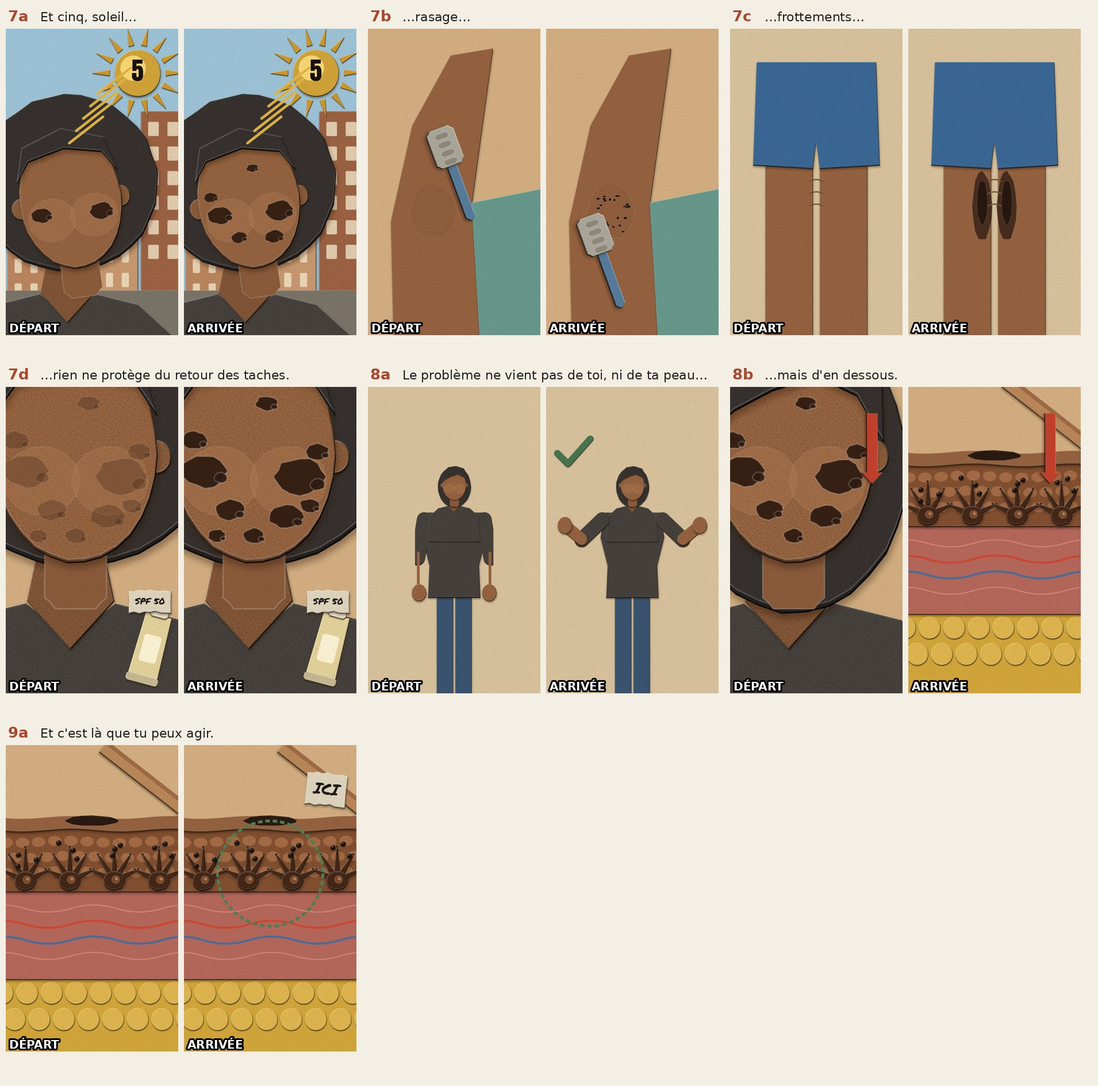
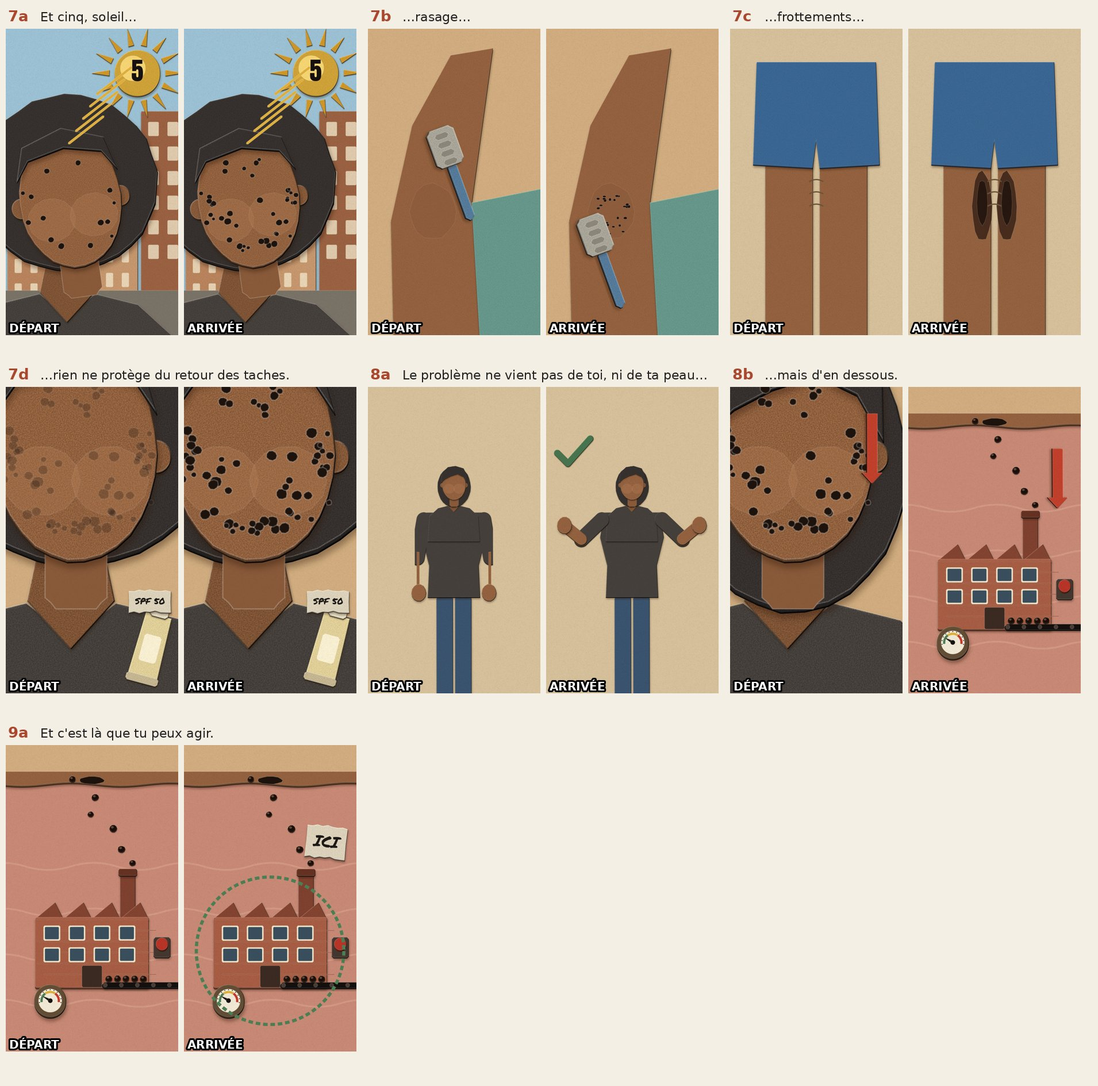
Storyboard v4: usine a melanine, points noirs, serum qui goutte pour les actifs, 10c recadre
Claude-Session: https://claude.ai/code/session_01VzL1MDtc5i1uNUsoDy5uEf

diff --git a/mela-ad/web/sbplans.js b/mela-ad/web/sbplans.js
@@ -14,7 +14,7 @@ P("1c", "…ne part pas.", (g, e) => { S.plain(g); const f = S.jaw(g, { hair: "a
 
 /* 2 · R1 */
 P("2a", "Un, tu essaies de faire partir tes taches à la surface…", (g, e) => { S.plain(g); const f = S.jaw(g, { hair: "bun", turn: -.5, x: 640 }); S.patches(f, .8); const c = f.pt(-92, 34); S.hand(g, c[0] - 30, c[1] + 220, 1.6, 20, { point: true }); if (e) H.blob(f.hd, -92, 34, 60, 40, "#F3EEE2", { n: 14, jit: .08, sh: false, th: 0, attr: { opacity: .55 } }); S.tube(g, 180, 1500, "#F2C9C0", 1, 1.4, -18); });
-P("2b", "…alors qu'elles se fabriquent sous ta peau.", (g, e) => { S.plain(g); S.cut(g, 560, { flap: e ? 1 : 0, grains: e ? 3 : 0 }); if (!e) H.rrect(g, -100, 630, 1300, 1500, "#D2AE80", { r: 0, sh: false, jit: 0 }); H.blob(g, 540, 545, 200, 22, "#F3EEE2", { n: 14, jit: .05, th: 3 }); });
+P("2b", "…alors qu'elles se fabriquent sous ta peau.", (g, e) => { if (!e) { S.plain(g); const y = S.inside(g, { spot: 1.2 }); H.rrect(g, -100, y + 20, 1300, 1800, "#D2AE80", { r: 0, sh: false, jit: 0 }); S.hand(g, 540, y - 260, 1.3, 180, { point: true }); } else S.mech(g, { smoke: 8, belt: 6, spot: 1.2 }); });
 
 /* 3 · R2 */
 P("3a", "Deux, tu les caches…", (g, e) => { S.bathWall(g); const f = K4.face(g, 640, 520, 2.6, { hair: "afro", turn: .4 }); S.patches(f, .9); if (e) makeup(f); const c = f.pt(86, 44); const h = S.hand(g, c[0] + 60, c[1] + 240, 1.4, -20); K.sponge(h.q); S.found(g, 190, 1450, 2, 1.8); });
@@ -43,41 +43,41 @@ P("7d", "…rien ne protège du retour des taches.", (g, e) => { S.plain(g); con
 
 /* 8 · pas toi, dessous */
 P("8a", "Le problème ne vient pas de toi, ni de ta peau…", (g, e) => { S.plain(g, "#D8C29C"); S.body(g, 540, 1900, .8, { hair: "bob", turn: .2, armL: e ? [[-214, -1420], [-360, -1280], [-480, -1380]] : undefined, armR: e ? [[214, -1420], [360, -1280], [480, -1380]] : undefined }); if (e) S.check(g, 200, 380, 110); });
-P("8b", "…mais d'en dessous.", (g, e) => { S.plain(g); if (!e) { const f = S.jaw(g, { hair: "bob" }); S.patches(f, .8); } else S.cut(g, 380, { flap: 1, grains: 3 }); K.arrow(g, 860, 160, 860, 560, Q.red, 56); });
+P("8b", "…mais d'en dessous.", (g, e) => { if (!e) { S.plain(g); const f = S.jaw(g, { hair: "bob" }); S.patches(f, .8); K.arrow(g, 860, 160, 860, 560, Q.red, 56); } else { S.mech(g, { smoke: 6, belt: 5 }); K.arrow(g, 900, 360, 900, 700, Q.red, 56); } });
 
 /* 9 · agir */
-P("9a", "Et c'est là que tu peux agir.", (g, e) => { S.plain(g); const C = S.cut(g, 420, { flap: 1, grains: 3 }); if (e) { K.ring(g, 540, C.cy - 40, 300, Q.green, 16); S.tag(g, "ICI", 860, 260, 90, { string: false, r: 6 }); } });
+P("9a", "Et c'est là que tu peux agir.", (g, e) => { const F = S.mech(g, { smoke: 6, belt: 5 }); if (e) { K.ring(g, 540, 1180, 420, Q.green, 18); S.tag(g, "ICI", 860, 560, 90, { string: false, r: 6 }); } });
 
 /* 10 · mélanine */
-P("10a", "Voilà ce qui se passe.", (g, e) => { S.plain(g); const f = S.jaw(g, { hair: "bob", x: 380 }); S.patches(f, .8); S.loupe(g, 620, 780, 300, c => { if (e) { const q = H.grp(c, -540, -1000, { j: 0 }); S.cut(q, 640, { grains: 3 }); } else { H.circ(c, 0, 0, 300, "#A06A44", { sh: false, th: 0 }); H.blob(c, 40, 20, 120, 80, DK, { n: 14, jit: .2, sh: false, th: 0 }); } }); });
-P("10b", "Ta peau fabrique de la mélanine…", (g, e) => { S.plain(g); S.melano(g, 540, 1100, 3.2, e ? 18 : 3); });
-P("10c", "…c'est ce qui lui donne sa couleur.", (g, e) => { S.plain(g); const tones = ["#D9A67E", "#B98258", "#A06A44", "#7C4A30", "#4B2B1E"]; (e ? tones : [tones[2]]).forEach((sk, i) => K4.face(g, e ? 140 + i * 200 : 540, e ? 760 + (i % 2) * 120 : 760, e ? .9 : 1.9, { skin: e ? sk : tones[2], hair: ["afro", "bun", "bob", "braids", "afro"][i], cloth: [Q.green, "#C8392B", K3.CLOTH, Q.blue, "#E2B13C"][i] })); });
+P("10a", "Voilà ce qui se passe.", (g, e) => { S.plain(g); const f = S.jaw(g, { hair: "bob", x: 380 }); S.patches(f, .8); S.loupe(g, 620, 780, 300, c => { if (e) { H.circ(c, 0, 0, 300, "#C98A76", { sh: false, th: 0 }); S.factory(c, { x: 0, y: 60, s: .38, smoke: 4, belt: 4 }); } else { H.circ(c, 0, 0, 300, "#A06A44", { sh: false, th: 0 }); for (let i = 0; i < 18; i++) H.circ(c, Math.cos(i * 2.4) * 160 * ((i % 4) / 4 + .2), Math.sin(i * 2.4) * 160 * ((i % 4) / 4 + .2), 12, "#1E120C", { sh: false, th: 0 }); } }); });
+P("10b", "Ta peau fabrique de la mélanine…", (g, e) => { S.mech(g, { smoke: e ? 10 : 2, belt: e ? 9 : 2, spot: e ? 1 : .3 }); if (e) S.tag(g, "MÉLANINE", 760, 620, 56, { string: false, r: -4 }); });
+P("10c", "…c'est ce qui lui donne sa couleur.", (g, e) => { S.plain(g); const tones = ["#D9A67E", "#B98258", "#A06A44", "#7C4A30", "#4B2B1E"], hair = ["afro", "bun", "bob", "braids", "afro"], cl = [Q.green, "#C8392B", K3.CLOTH, Q.blue, "#E2B13C"]; if (!e) K4.face(g, 540, 760, 1.6, { skin: tones[2], hair: "bob", cloth: cl[2] }); else [[260, 520], [540, 520], [820, 520], [400, 1060], [680, 1060]].forEach(([x, y], i) => K4.face(g, x, y, .62, { skin: tones[i], hair: hair[i], cloth: cl[i] })); });
 
 /* 11 · agression */
-P("11a", "Quand elle est agressée…", (g, e) => { S.plain(g); const c = K4.chest(g, 540, 300); H.set(c.dial.nd, { r: e ? 70 : -70 }); c.rays.forEach(r => H.set(r, { o: e ? 1 : 0 })); if (e) S.burst(g, 540, 1000, 18, 380, 600); });
-P("11b", "…par un bouton…", (g, e) => { S.plain(g); const f = S.jaw(g, { hair: "bob" }); S.patches(f, .3); if (e) { const pm = K.pimple(f.hd, 30); H.set(pm, { x: 70, y: 70 }); } });
-P("11c", "…un rasage…", (g, e) => { S.plain(g, "#D8C29C"); const l = H.grp(g, 540, 960, { j: 0 }); l._b.r = -14; H.rrect(l, -200, -1000, 400, 2000, S.SK, { r: 200, jit: 0, th: 10 }); if (e) S.freckles(l, -120, -300, 240, 500, 28, 6, 6); const rz = K.razor(g, 1.6); H.set(rz, { x: e ? 640 : 480, y: e ? 1300 : 420, r: 76 }); });
-P("11d", "…le soleil…", (g, e) => { S.street(g); const su = K3.sunBig(g, 130); H.set(su, { x: 820, y: 240 }); const f = K4.face(g, 460, 900, 2.0, { hair: "braids", turn: .5, tilt: -12 }); S.patches(f, e ? .7 : .2, { scale: e ? 1.2 : 1 }); });
-P("11e", "…ou les hormones…", (g, e) => { S.board(g, "#D8C29C"); S.blister(g, 320, 640, 1.4); const t = H.grp(g, 760, 760, { j: 0 }); t._b.r = 20; H.rrect(t, -50, -240, 100, 480, "#FBF6EA", { r: 40, jit: 0, th: 6 }); H.rrect(t, -26, -60, 52, 90, "#CFE0E8", { r: 8, jit: 0, sh: false, th: 0 }); H.rrect(t, -6, -50, 6, 70, "#C8392B", { r: 2, jit: 0, sh: false, th: 0 }); H.rrect(t, 6, -50, 6, 70, "#C8392B", { r: 2, jit: 0, sh: false, th: 0 }); if (e) { const f = K4.face(g, 540, 1400, 1.4, { hair: "bun", turn: -.3 }); [[0, -90, 70], [-60, 110, 34], [60, 110, 34], [0, 100, 26]].forEach(([x, y, r], i) => H.blob(f.hd, x, y, r, r * .5, DK2, { n: 12, jit: .2, seed: i, sh: false, th: 0 })); } });
-P("11f", "…elle en fabrique trop…", (g, e) => { S.plain(g); S.melano(g, 540, 1100, 3.2, e ? 40 : 4, { high: 600 }); const dl = K4.dial(g, 880, 260, 120); H.set(dl.nd, { r: e ? 78 : -60 }); });
-P("11g", "…à cet endroit précis.", (g, e) => { S.plain(g); const f = S.jaw(g, { hair: "bob" }); S.patches(f, .3); H.blob(f.hd, 86, 44, 58, 42, DK, { n: 14, jit: .2, sh: false, th: 0 }); if (e) { const c = f.pt(86, 44); K.ring(g, c[0], c[1], 300, Q.cream, 16); } });
+P("11a", "Quand elle est agressée…", (g, e) => { S.mech(g, { smoke: 3, belt: 3, alarm: e, dial: e ? 60 : -60, pressed: e }); if (e) S.bolt(g, 860, 600, 1.0, 20); });
+P("11b", "…par un bouton…", (g, e) => { S.split(g, T => { S.plain(T); const f = K4.face(T, 540, 260, 2.4, { hair: "bob", turn: .4 }); S.patches(f, .2); if (e) { const pm = K.pimple(f.hd, 28); H.set(pm, { x: 80, y: 60 }); } }, { alarm: e, pressed: e, smoke: e ? 6 : 1, dial: e ? 60 : -60 }); });
+P("11c", "…un rasage…", (g, e) => { S.split(g, T => { S.plain(T, "#D8C29C"); const l = H.grp(T, 540, 420, { j: 0 }); l._b.r = -70; H.rrect(l, -170, -800, 340, 1600, S.SK, { r: 0, jit: 0, th: 10 }); if (e) S.freckles(l, -100, -200, 200, 360, 22, 6, 6); const rz = K.razor(T, 1.4); H.set(rz, { x: e ? 760 : 300, y: e ? 470 : 360, r: 10 }); }, { alarm: e, pressed: e, smoke: e ? 6 : 1, dial: e ? 60 : -60 }); });
+P("11d", "…le soleil…", (g, e) => { S.split(g, T => { S.street(T); const su = K3.sunBig(T, 110); H.set(su, { x: 860, y: 200 }); const f = K4.face(T, 440, 520, 1.5, { hair: "braids", turn: .5, tilt: -12 }); S.patches(f, e ? .5 : .1); }, { alarm: e, pressed: e, smoke: e ? 6 : 1, dial: e ? 60 : -60 }); });
+P("11e", "…ou les hormones…", (g, e) => { S.split(g, T => { S.board(T, "#D8C29C"); S.blister(T, 330, 400, 1.2); const t = H.grp(T, 760, 420, { j: 0 }); t._b.r = 20; H.rrect(t, -45, -220, 90, 440, "#FBF6EA", { r: 40, jit: 0, th: 6 }); H.rrect(t, -24, -50, 48, 80, "#CFE0E8", { r: 8, jit: 0, sh: false, th: 0 }); H.rrect(t, -6, -42, 6, 64, "#C8392B", { r: 2, jit: 0, sh: false, th: 0 }); H.rrect(t, 6, -42, 6, 64, "#C8392B", { r: 2, jit: 0, sh: false, th: 0 }); }, { alarm: e, pressed: e, smoke: e ? 6 : 1, dial: e ? 60 : -60 }); });
+P("11f", "…elle en fabrique trop…", (g, e) => { S.mech(g, { smoke: e ? 26 : 4, belt: e ? 18 : 3, alarm: e, dial: e ? 78 : -40, spot: e ? 2.4 : 1 }); });
+P("11g", "…à cet endroit précis.", (g, e) => { S.plain(g); const f = S.jaw(g, { hair: "bob" }); S.patches(f, .25); for (let i = 0; i < 14; i++) H.blob(f.hd, 86 + Math.cos(i * 2.4) * 34 * ((i % 4) / 3 + .3), 44 + Math.sin(i * 2.4) * 30 * ((i % 4) / 3 + .3), 8, 7, "#1E120C", { n: 9, jit: .15, seed: i, sh: false, th: 0 }); if (e) { const c = f.pt(86, 44); K.ring(g, c[0], c[1], 230, Q.cream, 16); } });
 
 /* 12 · coincée */
-P("12a", "Cette mélanine reste coincée sous la peau.", (g, e) => { S.plain(g); S.cut(g, 420, { flap: 0, grains: 4, high: true }); if (e) { for (let i = 0; i < 10; i++) H.rrect(g, 30 + i * 112, 380, 22, 140, "#2A211D", { r: 6, jit: 0, th: 4 }); H.rrect(g, -60, 440, 1200, 22, "#2A211D", { r: 6, jit: 0, th: 4 }); S.lock(g, 540, 340, 1.5); } });
+P("12a", "Cette mélanine reste coincée sous la peau.", (g, e) => { const y = S.inside(g, { spot: 1.4 }); const rg = H.rng(4); for (let i = 0; i < 30; i++) K3.dot(g, 300 + rg() * 480, y + 60 + rg() * 200, 18, i, MEL); S.factory(g, { x: 540, y: 1300, s: .8, smoke: 3, belt: 4 }); if (e) { for (let i = 0; i < 10; i++) H.rrect(g, 30 + i * 112, y + 20, 22, 300, "#2A211D", { r: 6, jit: 0, th: 4 }); H.rrect(g, -60, y + 300, 1200, 22, "#2A211D", { r: 6, jit: 0, th: 4 }); S.lock(g, 540, y + 330, 1.4); } });
 
 /* 13 · réagit plus fort */
 P("13a", "Et sur une peau mate ou noire, elle réagit souvent plus fort.", (g, e) => { S.plain(g, "#9CC3D6"); const su = K3.sunBig(g, 100); H.set(su, { x: 540, y: 220 }); [["#D9A67E", 290], [S.SK, 790]].forEach(([sk, x], i) => { H.blob(g, x, 700, 170, 170, sk, { n: 30, jit: 0, th: 10 }); H.rrect(g, x - 170, 700, 340, 1400, sk, { r: 0, jit: 0, th: 10 }); if (e) { if (i === 0) H.blob(g, x, 900, 40, 30, "#8A5A3A", { n: 12, jit: .2, sh: false, th: 0 }); else H.blob(g, x, 920, 120, 84, "#2E1A10", { n: 18, jit: .22, sh: false, th: 0, attr: { opacity: .92 } }); } }); });
 
 /* 14 · des mois / surface */
 P("14a", "C'est pour ça que la tache reste des mois…", (g, e) => { const m = bathSet(g); S.cal(g, 860, 360, .75, e ? 6 : 0); const f = S.woman(m.inner, 0, 60, 1.0, { hair: "afro", turn: .5 }); S.patches(f, .8); if (e) for (let i = 0; i < 5; i++) { const pg = H.grp(g, 700 - i * 90, 560 + i * 70, { j: 0 }); pg._b.r = -20 + i * 12; H.rrect(pg, -60, -70, 120, 140, "#F7EFD6", { r: 8, jit: 0, th: 4 }); H.rrect(pg, -60, -70, 120, 34, "#A9482F", { r: 8, jit: 0, sh: false, th: 0 }); } });
-P("14b", "…et qu'un produit de surface n'y change rien.", (g, e) => { S.plain(g); S.cut(g, 420, { flap: 0, grains: 4, high: true }); if (e) H.poly(g, [[-100, 400], [1180, 400], [1180, 440], [-100, 440]], "#F3EEE2", { jit: 2, th: 4 }); else S.hand(g, 540, 160, 1.4, 180, { point: true }); });
+P("14b", "…et qu'un produit de surface n'y change rien.", (g, e) => { const F = S.mech(g, { smoke: 8, belt: 7, spot: 1.2 }); if (e) H.poly(g, [[-100, 150], [1180, 150], [1180, 190], [-100, 190]], "#F3EEE2", { jit: 2, th: 4 }); else S.hand(g, 540, -40, 1.3, 180, { point: true }); });
 
 /* 15 · pas éclaircir */
 P("15a", "Le but n'est donc pas d'éclaircir ta peau.", (g, e) => { S.board(g, "#D8C29C"); const j = K.jar(g, "#FBF6EA", 2.2); H.set(j, { x: e ? 380 : 540, y: 960, r: e ? -16 : 0 }); S.tag(j, "BLANCHISSANT", 0, 24, 30, { string: false }); if (e) { S.hand(g, 820, 1240, 1.8, -70); S.cross(g, 400, 900, 260); } });
 
 /* 16 · réguler */
-P("16a", "C'est de réguler ta production de mélanine…", (g, e) => { S.plain(g); S.melano(g, 540, 1150, 3.0, e ? 3 : 30, { high: 560 }); const dl = K4.dial(g, 540, 260, 170); H.set(dl.nd, { r: e ? -68 : 72 }); });
-P("16b", "…pour qu'à chaque agression, ta peau n'en fabrique plus trop…", (g, e) => { S.plain(g); S.cut(g, 520, { flap: 0, grains: 1, spot: false }); S.bolt(g, 540, e ? 380 : 160, 1.3); if (e) S.check(g, 860, 240, 90); });
+P("16a", "C'est de réguler ta production de mélanine…", (g, e) => { S.mech(g, { smoke: e ? 2 : 14, belt: e ? 2 : 12, dial: e ? -68 : 72, slow: e, spot: e ? .4 : 1.4 }); });
+P("16b", "…pour qu'à chaque agression, ta peau n'en fabrique plus trop…", (g, e) => { S.mech(g, { smoke: 2, belt: 2, dial: e ? -40 : -68, pressed: e, spot: .4 }); S.bolt(g, 860, e ? 560 : 360, 1.0, 20); if (e) S.check(g, 200, 500, 90); });
 P("16c", "…et ne te gâche plus le teint tous les jours.", (g, e) => { S.plain(g, "#E9D8B8"); const f = K4.face(g, 540, 620, 2.4, { hair: "braids", turn: .3 }); S.patches(f, e ? 0 : .5); if (e) for (let i = 0; i < 7; i++) { H.rrect(g, 110 + i * 125, 1500, 100, 100, "#F7EFD6", { r: 10, jit: 0, th: 6 }); S.check(g, 160 + i * 125, 1560, 34); } });
 
 /* 17 · imagine */
@@ -86,20 +86,20 @@ P("17a", "Imagine que tu puisses enfin faire partir ces taches.", (g, e) => { S.
 /* 18 · ni brûler ni gommer : freiner */
 P("18a", "Pas avec un produit qui brûle…", (g, e) => { S.plain(g); const f = S.jaw(g, { hair: "bob", x: 460 }); S.patches(f, .7); if (e) { S.redness(f, 86, 50, 150, .6); S.redness(f, -86, 50, 130, .5); for (let i = 0; i < 14; i++) H.poly(f.hd, [[0, 0], [24, 6], [8, 22]].map(([x, y]) => [x - 140 + (i * 37) % 280, y - 20 + (i * 53) % 160]), "#E8C9A0", { jit: 0, th: 2 }); S.cross(g, 860, 340, 140); } const b = K3.bottle2(g, "#C8392B", "PEEL", 1.4); H.set(b, { x: 880, y: 1500 }); });
 P("18b", "…pas avec un gommage magique…", (g, e) => { S.board(g, "#C9A271"); const j = S.scrub(g, 540, 1000, 0, 2.2); S.tag(j, "MIRACLE", 0, 40, 32, { string: false }); for (let i = 0; i < 7; i++) { const st = H.grp(g, 540 + Math.cos(i) * 360, 740 + Math.sin(i * 1.7) * 200, { j: 0 }); H.poly(st, H.star(0, 0, 14, 40, 4), Q.yellow, { jit: 0, th: 4 }); } if (e) S.cross(g, 540, 920, 330); });
-P("18c", "…mais avec une solution qui freine la fabrication de pigment, à la source.", (g, e) => { S.plain(g); S.cut(g, 520, { flap: 1, grains: e ? 1 : 4, high: true }); S.serumDrop(g, 540, e ? 800 : 220, 1.8); });
+P("18c", "…mais avec une solution qui freine la fabrication de pigment, à la source.", (g, e) => { S.mech(g, { smoke: e ? 2 : 12, belt: e ? 2 : 10, dial: e ? -60 : 70, slow: e }); S.serumDrop(g, 300, e ? 900 : 640, 1.6); S.dropper(g, 300, 420, 1.0, 0, 0); });
 
 /* 19–23 · actifs */
 P("19a", "Pour ça, il y a quatre actifs dont tu as besoin.", (g, e) => { S.board(g, "#D8C29C"); const cols = ["#E2B13C", "#C8392B", "#F3E6C8", "#CF9A72"], nm = ["AZÉLAÏQUE", "ARBUTINE", "TRANÉXAMIQUE", "NIACINAMIDE"]; cols.forEach((c, i) => { const x = 270 + (i % 2) * 540, y = 620 + Math.floor(i / 2) * 640; vial(g, x, y, c, 1.4); if (e) S.tag(g, nm[i], x, y + 260, 40, { string: false, r: (i % 2 ? 4 : -4) }); }); });
-P("20a", "L'acide azélaïque, à dix pour cent…", (g, e) => { S.board(g); wheat(g, 400, 1100, 2.6); wheat(g, 700, 1160, 2.1); if (e) S.tag(g, "ACIDE AZÉLAÏQUE\n10 %", 540, 380, 84); });
-P("20b", "…freine la production de mélanine.", (g, e) => { S.plain(g); S.melano(g, 540, 1150, 3.0, e ? 4 : 26, { high: 560 }); if (e) for (let i = 0; i < 4; i++) S.serumDrop(g, 260 + i * 180, 560, 1.2); });
-P("21a", "L'alpha-arbutine…", (g, e) => { S.board(g); berry(g, 380, 1100, 2.4); berry(g, 720, 1180, 1.9); if (e) S.tag(g, "ALPHA-ARBUTINE", 540, 380, 84); });
-P("21b", "…bloque la tirozinase, l'enzyme qui lance cette fabrication.", (g, e) => { S.plain(g); const en = H.grp(g, 400, 900, { j: 0 }), pts = []; for (let i = 0; i <= 26; i++) { const a = .5 + i / 26 * (Math.PI * 2 - 1); pts.push([Math.cos(a) * 190, Math.sin(a) * 190]); } pts.push([0, 0]); H.poly(en, pts, "#F5D6A1", { jit: 1, th: 10 }); S.tag(g, "TIROZINASE", 400, 1180, 50, { string: false }); for (let i = 0; i < (e ? 2 : 6); i++) K3.dot(g, 640 + i * 80, 900, 28, i + 3, MEL); if (e) { const h = H.grp(g, 590, 900, { j: 0 }), p2 = []; for (let i = 0; i < 6; i++) { const a = i / 6 * 6.283; p2.push([Math.cos(a) * 70, Math.sin(a) * 70]); } H.poly(h, p2, "#4E7F55", { jit: 0, th: 6 }); S.tag(g, "ARBUTINE", 700, 660, 46, { string: false, r: 5 }); } });
-P("22a", "L'acide tranéxamique…", (g, e) => { S.board(g); vial(g, 540, 1080, "#F3E6C8", 2.0); if (e) S.tag(g, "ACIDE\nTRANÉXAMIQUE", 540, 380, 80); });
-P("22b", "…agit sur les taches tenaces, celles qui ne partent jamais vraiment.", (g, e) => { S.plain(g); S.cut(g, 320, { flap: 1, grains: 1 }); const r = H.rng(5); for (let i = 0; i < (e ? 6 : 30); i++) K3.dot(g, 540 + (r() - .5) * 340, 860 + r() * 260, 15, i + 70, MEL); if (e) for (let i = 0; i < 3; i++) S.serumDrop(g, 420 + i * 120, 760, 1.1); });
-P("23a", "Et la niacinamide, à cinq pour cent…", (g, e) => { S.board(g); vial(g, 540, 1080, "#CF9A72", 2.0); if (e) S.tag(g, "NIACINAMIDE\n5 %", 540, 380, 84); });
+P("20a", "L'acide azélaïque, à dix pour cent…", (g, e) => { S.inside(g, { spot: 1.2, y: 820 }); S.dropper(g, 540, e ? 660 : 520, 1.1, 0, e ? 2 : 1); bottleM(g, 900, 1600, .7); if (e) S.tag(g, "ACIDE AZÉLAÏQUE\n10 %", 540, 1250, 80, { string: false }); });
+P("20b", "…freine la production de mélanine.", (g, e) => { S.mech(g, { smoke: e ? 2 : 12, belt: e ? 3 : 14, dial: e ? -55 : 70, slow: e }); for (let i = 0; i < (e ? 4 : 1); i++) S.serumDrop(g, 300 + i * 160, e ? 820 + (i % 2) * 60 : 420, 1.3); });
+P("21a", "L'alpha-arbutine…", (g, e) => { S.inside(g, { spot: 1, y: 820 }); S.dropper(g, 540, e ? 660 : 520, 1.1, 0, e ? 2 : 1); bottleM(g, 900, 1600, .7); if (e) S.tag(g, "ALPHA-ARBUTINE", 540, 1250, 80, { string: false }); });
+P("21b", "…bloque la tirozinase, l'enzyme qui lance cette fabrication.", (g, e) => { S.plain(g, "#C98A76"); const en = H.grp(g, 420, 1000, { j: 0 }), pts = []; for (let i = 0; i <= 26; i++) { const a = .5 + i / 26 * (Math.PI * 2 - 1); pts.push([Math.cos(a) * 190, Math.sin(a) * 190]); } pts.push([0, 0]); H.poly(en, pts, "#F5D6A1", { jit: 1, th: 10 }); S.tag(g, "TIROZINASE", 420, 1280, 50, { string: false }); for (let i = 0; i < (e ? 2 : 6); i++) K3.dot(g, 660 + i * 80, 1000, 28, i + 3, MEL); S.serumDrop(g, 420, e ? 800 : 600, 1.6); if (e) { S.lock(g, 420, 1000, 1.4); for (let i = 0; i < 4; i++) H.el("path", { d: `M${300 + i * 80},${780 - (i % 2) * 20} l-20,-50`, stroke: "#E8A65A", "stroke-width": 8, "stroke-linecap": "round" }, g); } S.dropper(g, 420, 420, 1.0, 0, 0); });
+P("22a", "L'acide tranéxamique…", (g, e) => { S.inside(g, { spot: 1.8, y: 820 }); S.dropper(g, 540, e ? 660 : 520, 1.1, 0, e ? 2 : 1); bottleM(g, 900, 1600, .7); if (e) S.tag(g, "ACIDE\nTRANÉXAMIQUE", 540, 1250, 76, { string: false }); });
+P("22b", "…agit sur les taches tenaces, celles qui ne partent jamais vraiment.", (g, e) => { const y = S.inside(g, { spot: e ? .6 : 1.8 }); const rg = H.rng(5); for (let i = 0; i < (e ? 6 : 34); i++) K3.dot(g, 540 + (rg() - .5) * 420, y + 60 + rg() * 260, 18, i + 70, MEL); S.factory(g, { x: 540, y: 1340, s: .7, smoke: 2, belt: 3 }); if (e) for (let i = 0; i < 4; i++) S.serumDrop(g, 380 + i * 110, y + 140 + (i % 2) * 60, 1.1); });
+P("23a", "Et la niacinamide, à cinq pour cent…", (g, e) => { S.inside(g, { spot: 0.6, y: 820 }); S.dropper(g, 540, e ? 660 : 520, 1.1, 0, e ? 2 : 1); bottleM(g, 900, 1600, .7); if (e) S.tag(g, "NIACINAMIDE\n5 %", 540, 1250, 80, { string: false }); });
 const bricks = (g, y) => { for (let r = 0; r < 2; r++) for (let i = 0; i < 8; i++) H.rrect(g, -60 + i * 150 + (r % 2) * 75, y - 70 - r * 60, 140, 54, "#D9A482", { r: 6, jit: 0, th: 6 }); };
-P("23b", "…renforce ta barrière cutanée…", (g, e) => { S.plain(g); S.cut(g, 620, { grains: 1, spot: false }); if (e) bricks(g, 620); });
-P("23c", "…pour que ta peau réagisse moins…", (g, e) => { S.plain(g); S.cut(g, 620, { grains: 1, spot: false }); bricks(g, 620); S.bolt(g, e ? 780 : 540, e ? 220 : 420, 1.2, e ? 40 : 0); if (e) for (let i = 0; i < 3; i++) H.el("path", { d: `M${600 + i * 30},${400 - i * 30} l70,-70`, stroke: "#6b543a", "stroke-width": 8, "stroke-linecap": "round" }, g); });
+P("23b", "…renforce ta barrière cutanée…", (g, e) => { const y = S.inside(g, { spot: .4 }); S.factory(g, { x: 540, y: 1240, s: .8, smoke: 2, belt: 2 }); if (e) for (let r = 0; r < 2; r++) for (let i = 0; i < 8; i++) H.rrect(g, -60 + i * 150 + (r % 2) * 75, y - 60 - r * 58, 140, 52, "#D9A482", { r: 6, jit: 0, th: 6 }); else for (let i = 0; i < 3; i++) S.serumDrop(g, 340 + i * 200, y - 160, 1.0); });
+P("23c", "…pour que ta peau réagisse moins…", (g, e) => { const y = S.inside(g, { spot: .4 }); for (let r = 0; r < 2; r++) for (let i = 0; i < 8; i++) H.rrect(g, -60 + i * 150 + (r % 2) * 75, y - 60 - r * 58, 140, 52, "#D9A482", { r: 6, jit: 0, th: 6 }); S.factory(g, { x: 540, y: 1240, s: .8, smoke: 2, belt: 2, dial: -60 }); S.bolt(g, e ? 820 : 540, e ? 40 : 60, 1.0, e ? 40 : 0); });
 P("23d", "…et que les taches reviennent moins.", (g, e) => { S.street(g); const su = K3.sunBig(g, 120); H.set(su, { x: 820, y: 240 }); S.body(g, 480, 1900, .78, { hair: "afro", turn: .4 }); if (e) S.check(g, 200, 500, 100); });
 
 /* 24 · trop de produits */

diff --git a/mela-ad/web/sbkit3.js b/mela-ad/web/sbkit3.js
@@ -1,0 +1,28 @@
+/* Kit storyboard v4 : points noirs sur les visages, usine à mélanine sous la peau, pipette de sérum */
+/* points noirs (remplace les plaques) : grappes sur joues, front, mâchoire */
+S.DOTS = (() => { const r = H.rng(11), out = []; const zones = [[-90, 40, 60, 46], [90, 46, 60, 46], [0, -90, 70, 26], [-40, 130, 70, 26], [50, 130, 60, 24], [-125, -10, 20, 40], [125, 0, 20, 40]]; for (let i = 0; i < 70; i++) { const z = zones[i % zones.length]; out.push([z[0] + (r() - .5) * 2 * z[2], z[1] + (r() - .5) * 2 * z[3], 5 + r() * 6]); } return out; })();
+S.patches = (f, level = 1, o = {}) => { const n = Math.round(S.DOTS.length * Math.min(1, level)), op = o.op === undefined ? 1 : o.op, k = o.scale || 1; S.DOTS.slice(0, n).forEach(([x, y, r], i) => H.blob(f.hd, x, y, r * k, r * .9 * k, "#1E120C", { n: 9, jit: .15, seed: i + 3, sh: false, th: 0, attr: { opacity: op } })); };
+/* pipette de sérum MELA qui goutte */
+S.dropper = (g, x, y, s = 1, r = 0, drops = 1) => { const d = H.grp(g, x, y, { j: .3 }); d._b.r = r; const q = H.grp(d, 0, 0, { j: 0 }); H.set(q, { s }); H.blob(q, 0, -330, 52, 70, "#5A3A2E", { n: 18, jit: .02, th: 6 }); H.rrect(q, -46, -280, 92, 40, "#4F2F22", { r: 8, jit: 0, th: 4 }); H.rrect(q, -20, -240, 40, 260, "#E9E2D0", { r: 18, jit: 0, th: 3, attr: { opacity: .9 } }); H.rrect(q, -12, -140, 24, 150, "#C8803E", { r: 10, jit: 0, sh: false, th: 0 }); for (let i = 0; i < drops; i++) S.serumDrop(q, 0, 70 + i * 90, .9 - i * .1); return d; };
+/* peau vue de l'intérieur : bande de surface en haut (avec la tache), fond rosé = sous la peau */
+S.inside = (g, o = {}) => { H.rrect(g, -60, -60, 1200, 2040, "#C98A76", { r: 0, sh: false, jit: 0 }); for (let i = 0; i < 4; i++) H.el("path", { d: `M-100,${700 + i * 260} q130,-40 260,0 t260,0 t260,0 t260,0 t260,0`, stroke: "#D9A08C", "stroke-width": 10, fill: "none", opacity: .7 }, g); const y = o.y || 230; const pts = []; for (let x = -100; x <= 1180; x += 40) pts.push([x, y + Math.sin(x / 90) * 10]); H.poly(g, [[-100, -60], [1180, -60], ...pts.reverse()], S.SK, { jit: 0, th: 10 }); H.poly(g, [[-100, -60], [1180, -60], [1180, y - 70], [-100, y - 70]], "#D2AE80", { jit: 0, sh: false, th: 0 }); if (o.spot) H.blob(g, 540, y - 20, 70 * o.spot, 22, "#1E120C", { n: 14, jit: .12, sh: false, th: 0 }); return y; };
+/* usine à mélanine. o: belt (nb de grains sur le tapis), smoke (nb de grains qui montent), dial (-80 vert .. 80 rouge), alarm, lock, stop, x/y/s */
+S.factory = (g, o = {}) => { const x = o.x ?? 540, y = o.y ?? 1080, s = o.s ?? 1, F = H.grp(g, x, y, { j: .2 }), q = H.grp(F, 0, 0, { j: 0 }); H.set(q, { s });
+  H.rrect(q, 170, -470, 90, 290, "#8A4632", { r: 6, jit: 0, th: 8 }); H.rrect(q, 160, -490, 110, 40, "#6E3624", { r: 6, jit: 0, th: 5 });
+  const roof = [[-340, -190]]; for (let i = 0; i < 4; i++) roof.push([-340 + i * 170 + 120, -290], [-340 + (i + 1) * 170, -190]); H.poly(q, roof, "#8E4A34", { jit: 0, th: 8 });
+  H.rrect(q, -340, -200, 680, 420, "#B5654A", { r: 6, jit: 0, th: 10 }); for (let r = 0; r < 6; r++) for (let c = 0; c < 9; c++) H.rrect(q, -330 + c * 76 + (r % 2) * 38, -190 + r * 66, 70, 6, "#9C543C", { r: 2, jit: 0, sh: false, th: 0, attr: { opacity: .6 } });
+  for (let r = 0; r < 2; r++) for (let c = 0; c < 4; c++) { H.rrect(q, -290 + c * 150, -150 + r * 130, 100, 90, "#F3E6C8", { r: 6, jit: 0, sh: false, th: 0 }); H.rrect(q, -282 + c * 150, -142 + r * 130, 84, 74, o.alarm ? "#E8833A" : "#3A4F5E", { r: 4, jit: 0, sh: false, th: 0 }); }
+  H.rrect(q, -60, 90, 120, 130, "#3A2A22", { r: 6, jit: 0, sh: false, th: 0 });
+  const dl = K4.dial(q, -250, 300, 70); H.set(dl.nd, { r: o.dial === undefined ? -60 : o.dial });
+  H.rrect(q, 60, 190, 520, 34, Q.blk, { r: 14, jit: 0, th: 6 }); for (let i = 0; i < 6; i++) H.circ(q, 80 + i * 96, 207, 12, "#4A3C34", { sh: false, th: 0 });
+  for (let i = 0; i < (o.belt || 0); i++) K3.dot(q, 100 + (i % 9) * 52 + Math.floor(i / 9) * 26, 168 - Math.floor(i / 9) * 30, 20, i + 5, MEL);
+  const rg = H.rng(o.seed || 2); for (let i = 0; i < (o.smoke || 0); i++) { const t = i / Math.max(1, o.smoke); K3.dot(q, 215 + (rg() - .5) * 120 * (1 + t * 2) - t * 260, -520 - t * ((o.reach || 650)) + (rg() - .5) * 40, 16 + rg() * 8, i + 40, MEL); }
+  if (o.alarm) { const si = H.grp(q, -200, -300, { j: 0 }); H.rrect(si, -40, -10, 80, 30, "#6b543a", { r: 6, jit: 0, th: 4 }); H.blob(si, 0, -40, 40, 48, "#C8392B", { n: 16, jit: .03, th: 5 }); for (let i = 0; i < 7; i++) { const a = (-160 + i * 23) * Math.PI / 180; H.poly(si, [[Math.cos(a) * 70, -40 + Math.sin(a) * 70], [Math.cos(a) * 140, -40 + Math.sin(a) * 140], [Math.cos(a + .12) * 70, -40 + Math.sin(a + .12) * 70]], "#E0705A", { jit: 0, sh: false, th: 0 }); } }
+  if (o.button !== false) { const b = H.grp(q, 420, -60, { j: 0 }); H.rrect(b, -50, -20, 100, 120, "#4A3C34", { r: 10, jit: 0, th: 6 }); H.circ(b, 0, 20, o.pressed ? 30 : 36, "#C8392B", { th: o.pressed ? 2 : 8 }); }
+  if (o.lock) S.lock(q, 215, -560, 1.2);
+  if (o.slow) for (let i = 0; i < 3; i++) H.el("path", { d: `M${-120 + i * 120},-340 q30,-30 60,0`, stroke: Q.green, "stroke-width": 10, fill: "none", "stroke-linecap": "round" }, q);
+  F.q = q; F.pt = (lx, ly) => [x + lx * s, y + ly * s]; return F; };
+/* scène standard du mécanisme : intérieur de peau + usine */
+S.mech = (g, o = {}) => { const y = S.inside(g, { spot: o.spot === undefined ? 1 : o.spot }); const F = S.factory(g, Object.assign({ x: 540, y: 1180, s: .95, reach: 620 }, o)); return F; };
+/* découpe en 2 : en haut la scène réelle (fournie), en bas l'usine */
+S.split = (g, top, o = {}) => { const T = H.grp(g, 0, 0, { j: 0 }); S.clip(T, "M-60,-60H1140V820H-60Z"); top(T); H.torn(g, -100, 790, 1280, 60, "#F1E6CC", { seed: 7, th: 6 }); const B = H.grp(g, 0, 0, { j: 0 }); S.clip(B, "M-60,850H1140V2000H-60Z"); H.rrect(B, -60, 850, 1200, 1200, "#C98A76", { r: 0, sh: false, jit: 0 }); return S.factory(B, Object.assign({ x: 540, y: 1420, s: .72, reach: 500 }, o)); };

diff --git a/mela-ad/web/sb.html b/mela-ad/web/sb.html
@@ -58,7 +58,7 @@ text{font-family:"DM Sans",sans-serif}
  <g id="caps"></g>
 </svg>
 <script>window.READY=new Promise(r=>{window._res=r});
-const src=["engine.js","k2kit.js","k3kit.js","k4kit.js","sbkit.js","sbkit2.js","sbplans.js"];
+const src=["engine.js","k2kit.js","k3kit.js","k4kit.js","sbkit.js","sbkit2.js","sbkit3.js","sbplans.js"];
 Promise.all([document.fonts.load("400 60px Anton"),document.fonts.load("400 60px Marker"),document.fonts.load("800 60px 'DM Sans'"),document.fonts.load("700 40px 'DM Sans'")]).then(async()=>{for(const s of src){await new Promise(res=>{const e=document.createElement("script");e.src=s;e.onload=res;document.body.appendChild(e)})}});
 </script>
 </body></html>
